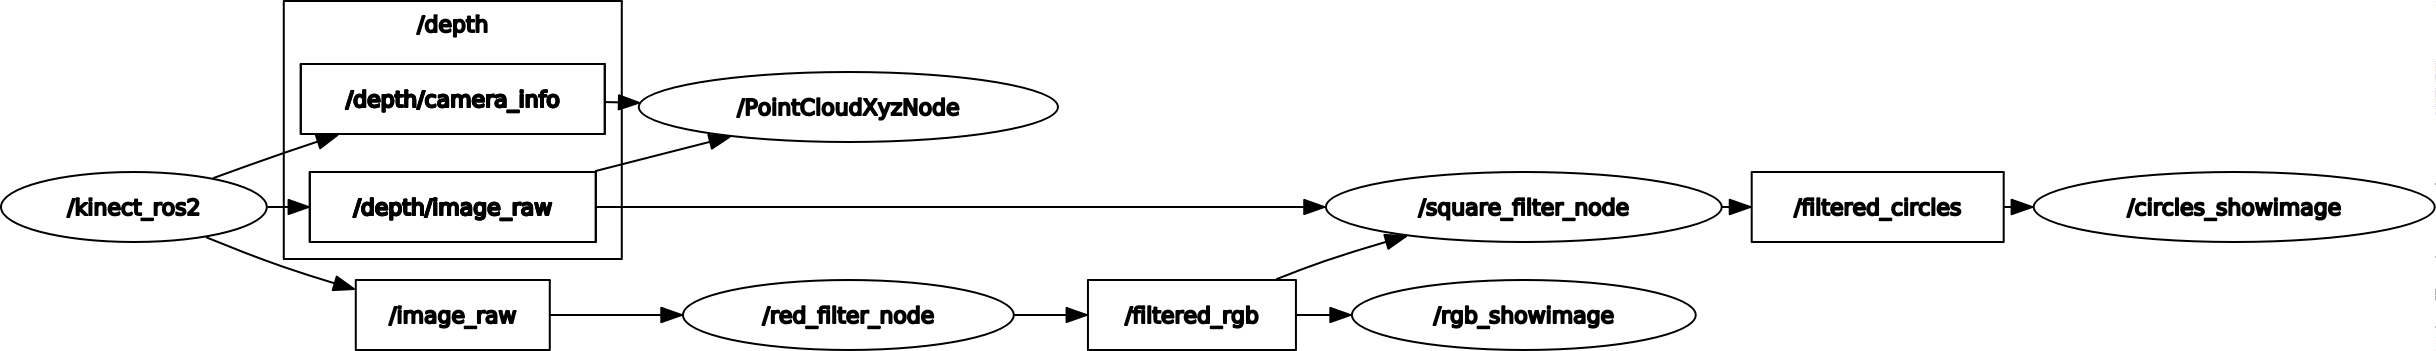
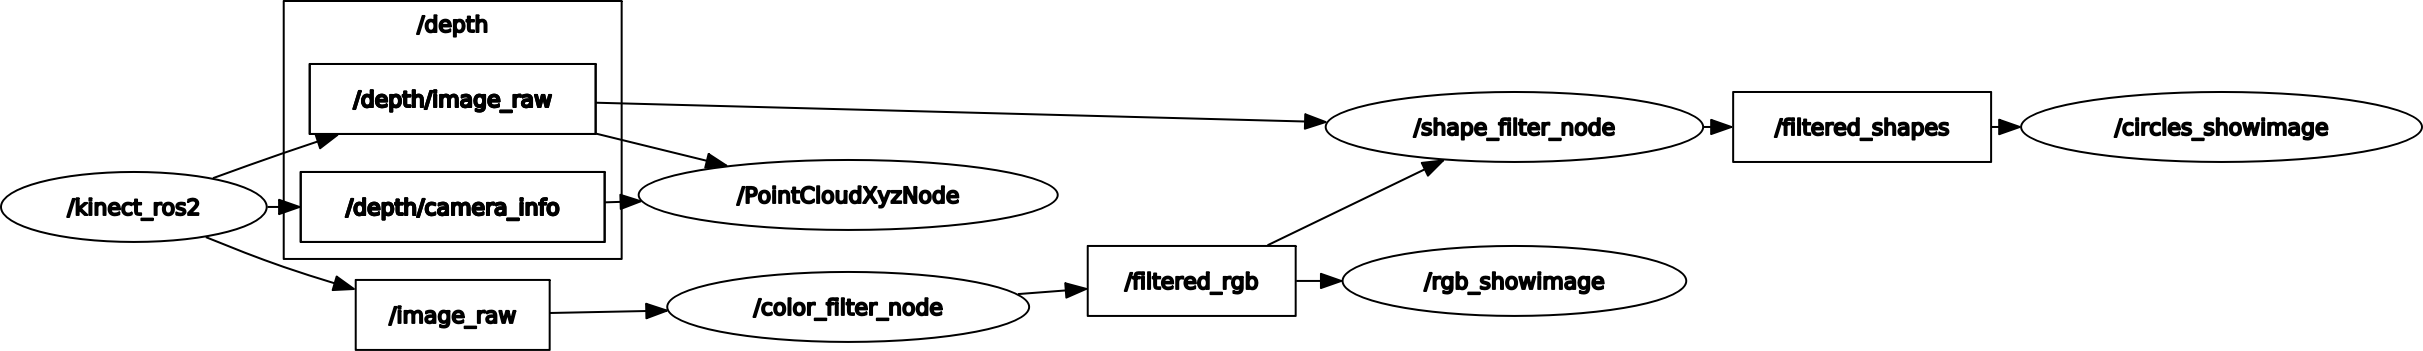
total

diff --git a/launch/showfilteredimage.launch.py b/launch/showfilteredimage.launch.py
@@ -41,7 +41,7 @@ def generate_launch_description():
             executable="showimage",
             name="circles_showimage",
             parameters=[{"window_name": "Filtered Circles"}],
-            remappings=[("image", "/filtered_circles")],
+            remappings=[("image", "/filtered_shapes")],
         ),
 
 

diff --git a/src/kinect_ros2_shape_filter_node.cpp b/src/kinect_ros2_shape_filter_node.cpp
@@ -23,7 +23,7 @@ public:
 
         // Publish filtered shape to filtered circles topic
         filtered_circles_publisher_ = create_publisher<sensor_msgs::msg::Image>(
-            "/filtered_circles", 10);
+            "/filtered_shapes", 10);
     }
 
 private:
